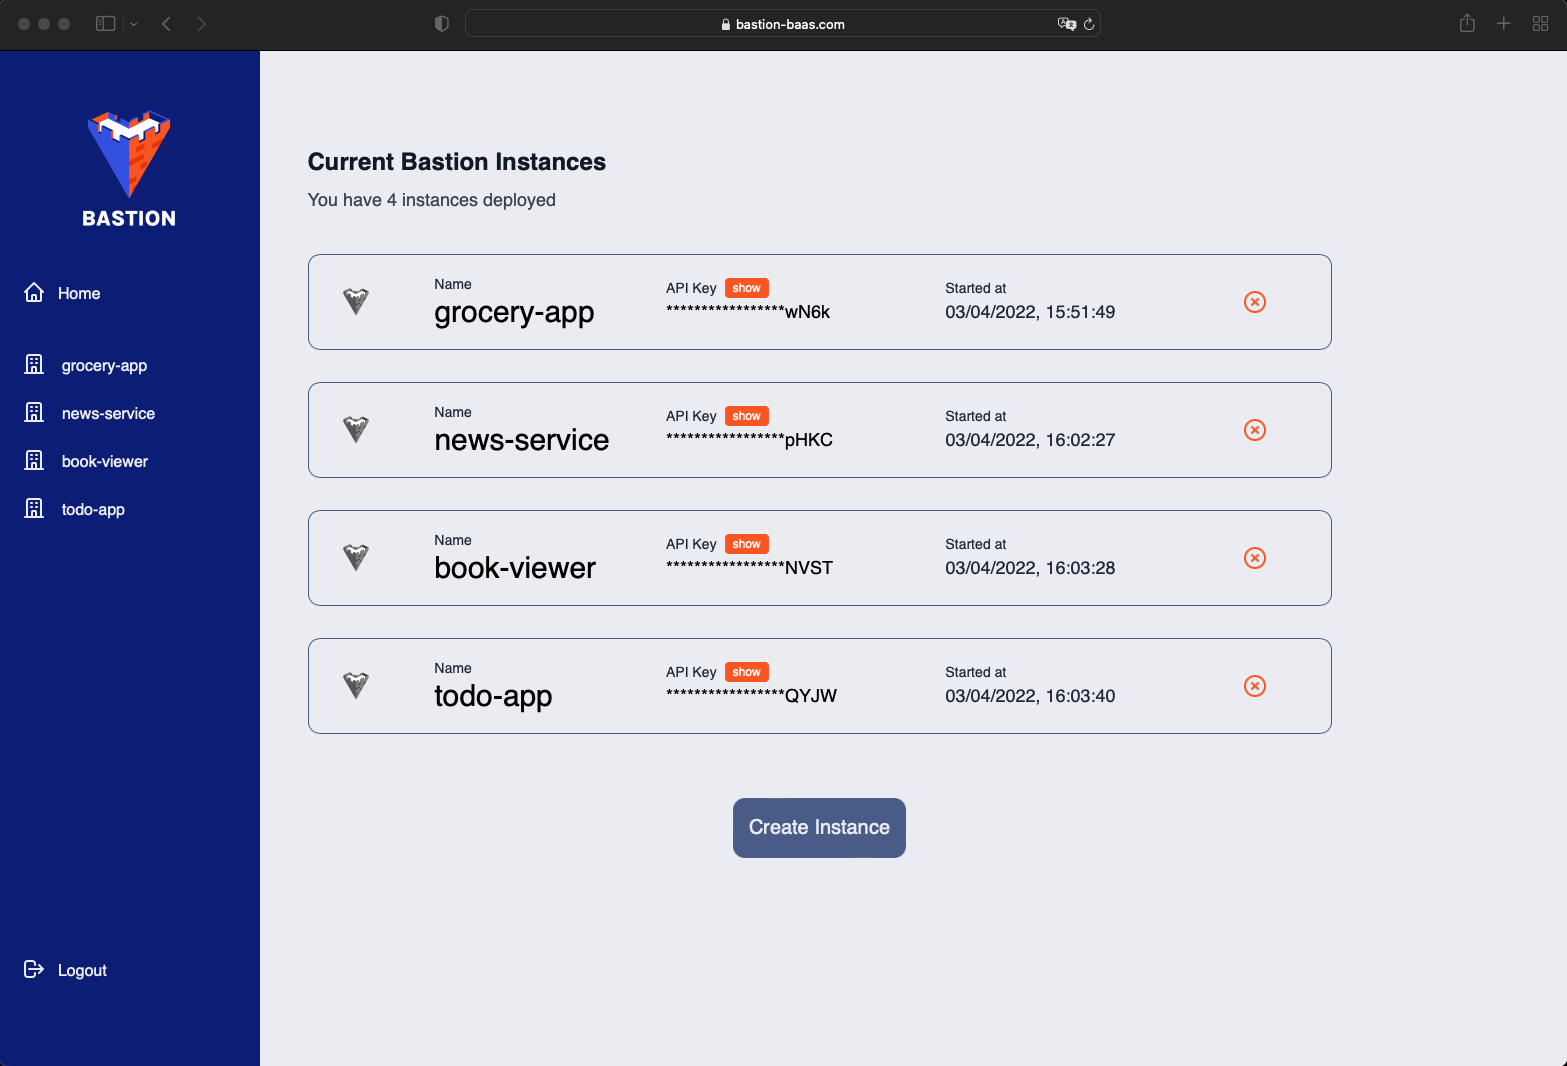
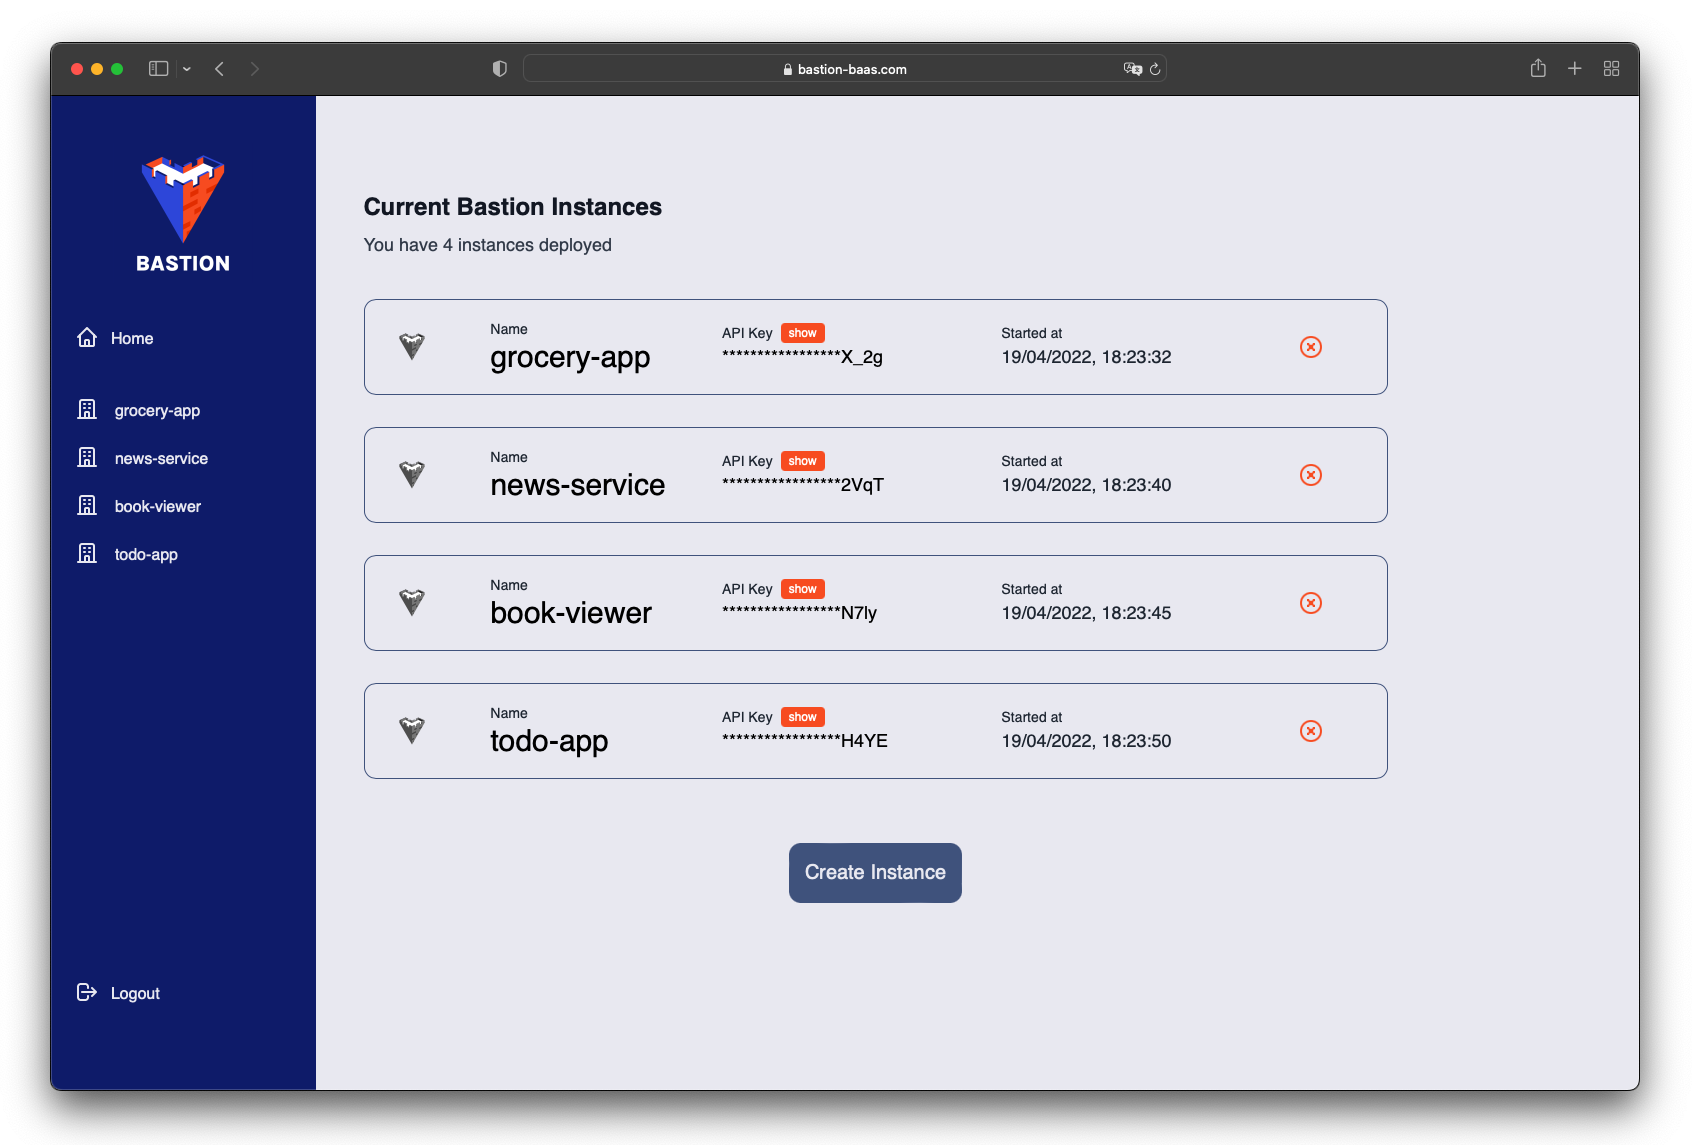
add images and fix intro page
- Fix cli gif
- Improve dashboard image
- Add presentation visuals to images folder

diff --git a/team.html b/team.html
@@ -54,7 +54,7 @@
       <div class="hero-text-container">
         <h1 class="h1 centered">The Team</h1>
       </div>
-      <p class="intro-paragraph white-paragraph centered" id="team-paragraph">Haven is built by a remote team of
+      <p class="intro-paragraph white-paragraph centered" id="team-paragraph">Bastion is built by a remote team of
         software engineers. We're currently looking for our next opportunities. Let's talk!</p>
     </div>
   </div>
@@ -98,28 +98,28 @@
                 </ul>
               </div>
               <div class="team-member-wrap">
-                <img src="assets/images/logo_color.png" loading="lazy" alt="">
+                <img src="assets/images/alican_sungur.jpg" loading="lazy" alt="">
                 <div class="team-member-info">
                   <div class="team-member-name">Alican Sungur</div>
                   <div class="team-member-location">London, UK</div>
                 </div>
                 <ul class="team-member-icons">
                   <li>
-                    <a href="mailto:email-placeholder" target="_blank">
+                    <a href="mailto:sunguralican@gmail.com" target="_blank">
                       <span class="team-member-icon">
                         <i class="fas fa-envelope"></i>
                       </span>
                     </a>
                   </li>
                   <li>
-                    <a href="https://site-placeholder.com/" target="_blank">
+                    <a href="https://asungur.com/" target="_blank">
                       <span class="team-member-icon">
                         <i class="fas fa-globe"></i>
                       </span>
                     </a>
                   </li>
                   <li>
-                    <a href="https://linkedin.com/in/linkedin-placeholder" target="_blank">
+                    <a href="https://www.linkedin.com/in/sunguralican/" target="_blank">
                       <span class="team-member-icon">
                         <i class="fab fa-linkedin"></i>
                       </span>

diff --git a/index.html b/index.html
@@ -3,7 +3,7 @@
 <html data-wf-page="5f71dd169010d6326b65485d">
   <head>
     <meta charset="utf-8">
-    <title>BaaS with Cloud-Code on your AWS</title>
+    <title>Bastion Back-end</title>
     <meta content="width=device-width, initial-scale=1" name="viewport">
     <link href="assets/css/style.css" rel="stylesheet" type="text/css">
     <script src="https://ajax.googleapis.com/ajax/libs/webfont/1.6.26/webfont.js" type="text/javascript"></script>
@@ -60,7 +60,7 @@
             </a>
           </div>
         </div>
-        <div data-w-id="c8b52af7-58af-18c7-65ce-aa2950b6601f" class="hero-images-container"><img src="assets/images/terminal_placeholder.png" alt="" class="hero-image-left" style="will-change: transform; transform: translate3d(0px, 0px, 0px) scale3d(1, 1, 1) rotateX(0deg) rotateY(0deg) rotateZ(0deg) skew(0deg, 0deg); transform-style: preserve-3d;"><img src="assets/images/dashboard.png" alt="" class="hero-image-right"></div>
+        <div data-w-id="c8b52af7-58af-18c7-65ce-aa2950b6601f" class="hero-images-container"><img src="assets/images/terminal_loop.gif" alt="" class="hero-image-left" style="will-change: transform; transform: translate3d(0px, 0px, 0px) scale3d(1, 1, 1) rotateX(0deg) rotateY(0deg) rotateZ(0deg) skew(0deg, 0deg); transform-style: preserve-3d;"><img src="assets/images/dashboard.png" alt="" class="hero-image-right"></div>
       </div>
     </div>
     <div class="section">
